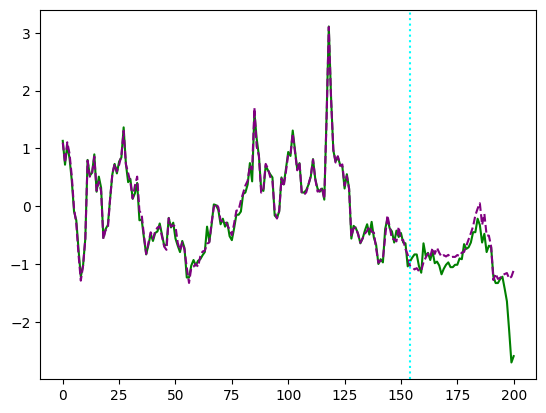
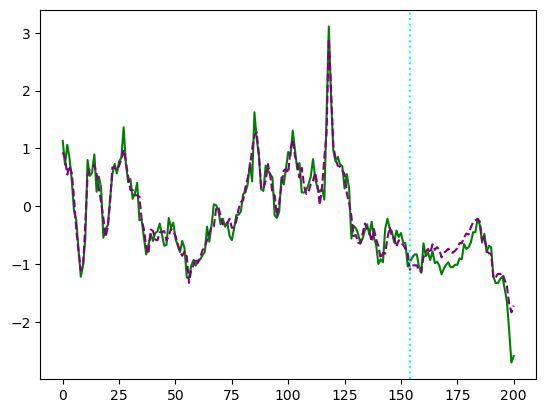
update gan

diff --git a/modules/net_module/gan.py b/modules/net_module/gan.py
@@ -1,0 +1,75 @@
+import torch
+from torch import nn
+from torch._C import device
+from .lstm_wrapper import LSTM
+from tqdm import tqdm
+from torch.utils.data import DataLoader
+
+class GAN:
+
+    def __init__(self, window_size, epoch = 10):
+        
+        self.generator = LSTM()
+        self.discriminator = nn.Sequential(
+            nn.Linear(window_size, window_size),
+            nn.Linear(window_size, window_size),
+            nn.Sigmoid()
+        )
+
+        self.adv_loss = nn.BCELoss()
+        self.g_loss = nn.SmoothL1Loss()
+
+        self.G_optim = torch.optim.Adam(self.generator.parameters(), lr=1e-4)
+        self.D_optim = torch.optim.Adam(self.discriminator.parameters(), lr=1e-4)
+
+        if torch.cuda.is_available():
+            self.generator.cuda()
+            self.discriminator.cuda()
+            self.adv_loss = self.adv_loss.cuda()
+
+        self.epoch = epoch
+
+    def train(self, data: DataLoader):
+        outputs = []
+        tq = tqdm(range(self.epoch), total=self.epoch, desc="Training...")
+        for ep in tq:
+            for x, y in data:
+                if torch.cuda.is_available():
+                    x = x.cuda()
+                    y = y.cuda()
+                # z = torch.randn_like(x, device=x.device)
+                fake, _ = self.generator(x)
+                self.G_optim.zero_grad()
+                self.D_optim.zero_grad()
+
+                g_loss = self.g_loss(fake, y)
+                adv_loss = self.adv_loss(self.discriminator(fake.squeeze(dim=-1)), torch.zeros_like(fake.squeeze(dim=-1), device=fake.device))
+
+                real_loss = self.adv_loss(self.discriminator(x[:,:, -1]), torch.ones_like(x[:, :, -1], device=x.device))
+                loss = (real_loss + adv_loss) / 2 + 2 * g_loss
+                loss.backward()
+                self.G_optim.step()
+                self.D_optim.step()
+
+                tq.set_postfix({
+                    "adv_loss": adv_loss.item(),
+                    "D_loss": loss.item()
+                })
+
+                if ep == self.epoch - 1:
+                    with torch.no_grad():
+                        outputs.extend(fake[:, -1].cpu().detach().squeeze(dim=1).numpy().tolist())
+
+        return outputs
+
+    def test(self, data: DataLoader):
+        outputs = []
+        for x, y in tqdm(data):
+            if torch.cuda.is_available():
+                x = x.cuda()
+                y = y.cuda()
+            out, _ = self.generator(x)
+            with torch.no_grad():
+                outputs.extend(out[:, -1].cpu().detach().squeeze(dim=1).numpy().tolist())
+
+        return outputs

diff --git a/main.py b/main.py
@@ -20,7 +20,7 @@ def main():
         train_len = round(length * 0.8) 
         train_dt = dt[:train_len]
         test_dt = dt[(train_len-WINDOW_SIZE+1):]
-        lstm = LSTM(window_size=WINDOW_SIZE)
+        lstm = LSTM()
         optim = torch.optim.AdamW(lstm.parameters(), lr=1e-4)
         # criterion = nn.MSELoss()
         criterion = nn.SmoothL1Loss()
@@ -32,15 +32,26 @@ def main():
         test_data = DataLoader(test_data, batch_size=1, pin_memory=True, num_workers=4)
 
         ground_truth = dt[WINDOW_SIZE:len(dt)-1].iloc[:, 2]
-        train_outputs = train_step(lstm, optim, train_data, criterion)
-        test_outputs = test_step(lstm, test_data)
-        with open("temp.txt", "w") as fp:
-            print(*test_outputs, sep="\n", file=fp)
 
+        # lstm
+        # train_outputs = train_step(lstm, optim, train_data, criterion)
+        # test_outputs = test_step(lstm, test_data)
+        # with open("temp.txt", "w") as fp:
+        #     print(*test_outputs, sep="\n", file=fp)
+
+        # plot(ground_truth, train_outputs + test_outputs, train_len - WINDOW_SIZE)
+
+
+        # gan
+        from modules.net_module.gan import GAN
+        gan = GAN(window_size=WINDOW_SIZE, epoch=200)
+        train_outputs = gan.train(train_data)
+        test_outputs = gan.test(test_data)
         plot(ground_truth, train_outputs + test_outputs, train_len - WINDOW_SIZE)
         
         
 if __name__ == "__main__":
+    # comp_idxs = ["000590.SZ", "000591.SZ", "000592.SZ"]
     comp_idxs = ["000590.SZ"]
     config = yaml.load(open("config.yaml", "r"), Loader=yaml.FullLoader)
     data_root = config["data"]["root"]

diff --git a/modules/net_module/lstm_wrapper.py b/modules/net_module/lstm_wrapper.py
@@ -4,7 +4,7 @@ from torch import nn
 
 class LSTM(nn.Module):
 
-    def __init__(self, window_size: int = 20):
+    def __init__(self):
         super().__init__()
 
         hid_size = 20
@@ -12,7 +12,7 @@ class LSTM(nn.Module):
         self.rnn = nn.LSTM(
             input_size=5, 
             hidden_size=hid_size,
-            num_layers=2,
+            num_layers=1,
             batch_first=True,
         )
         self.reg = nn.Sequential(

diff --git a/modules/net_module/utils.py b/modules/net_module/utils.py
@@ -4,7 +4,7 @@ from torch import nn
 from typing import Tuple, cast
 from torch.utils.data import DataLoader
 from tqdm import tqdm
-EPOCHS = 200
+EPOCHS = 100
 
 def train_step(net: nn.Module, opt: torch.optim.Optimizer, data_loader: DataLoader, criterion: nn.Module):
     outputs = []
